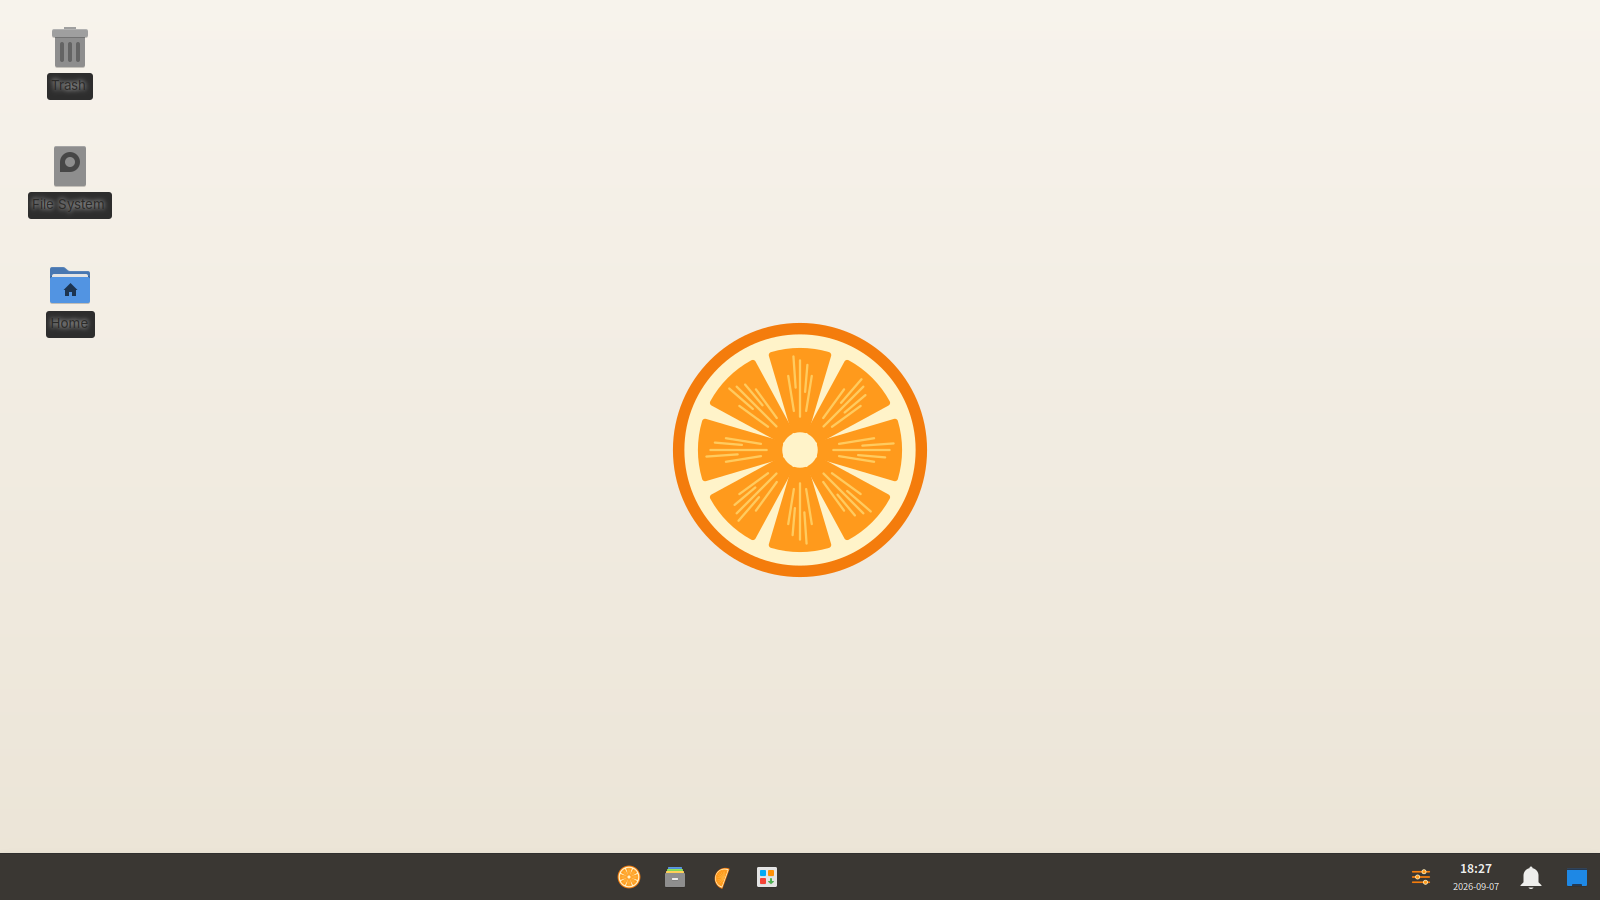
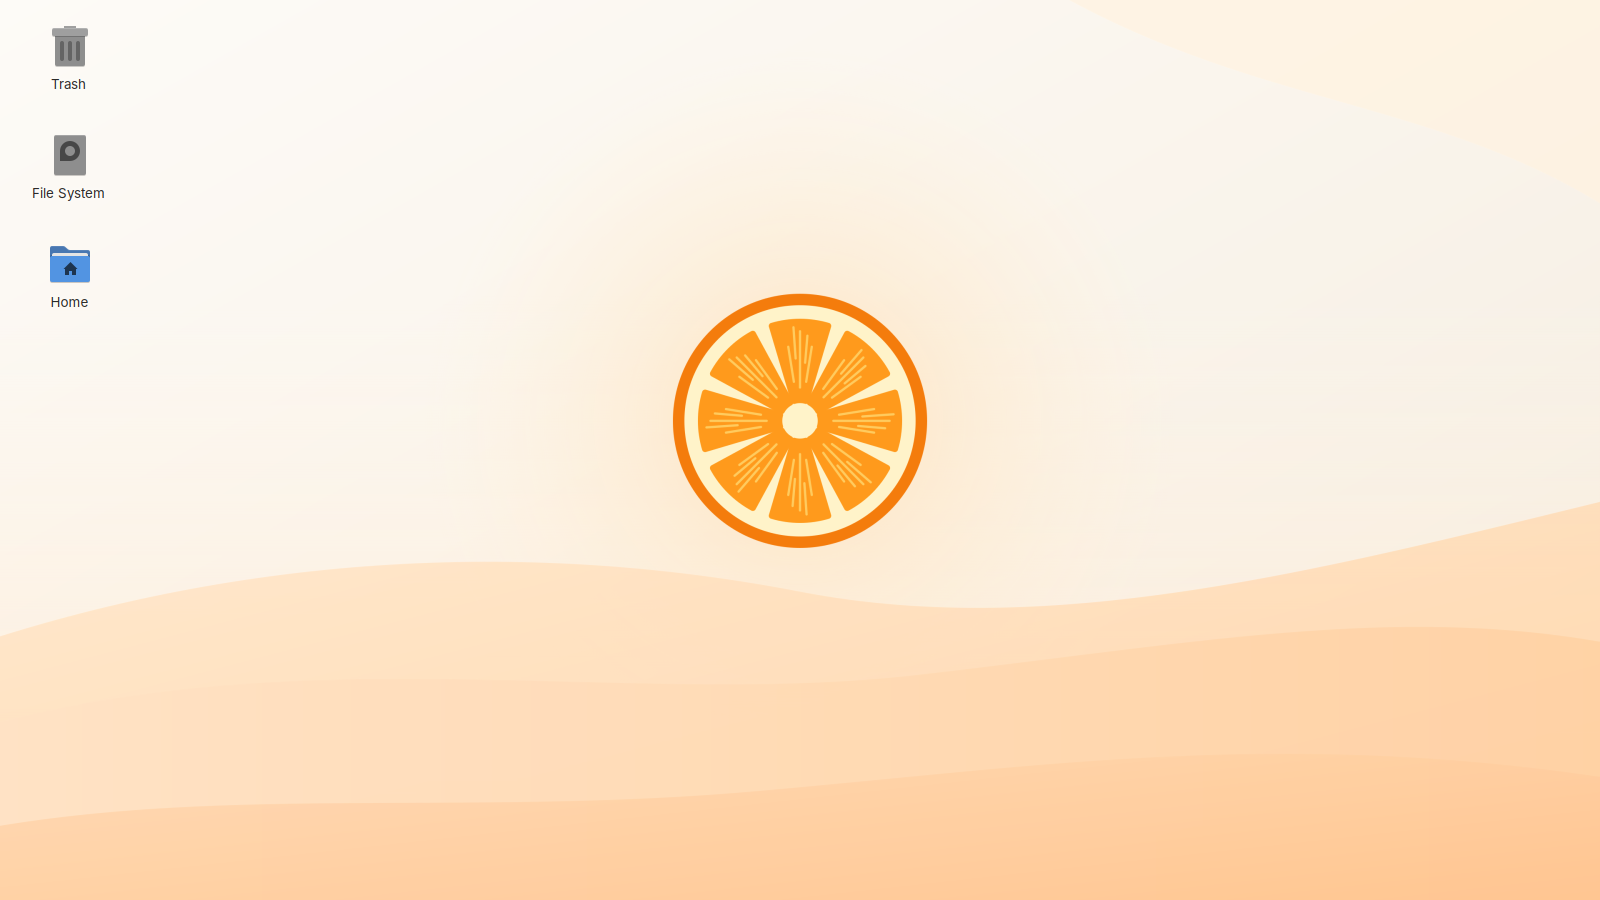
웹사이트 전체 산세리프(Bricolage Grotesque + Hanken Grotesk), 스크린샷 최신화, imager 릴리스 첨부 옵션
- web/index.html: 세리프(Fraunces) 제거하고 전체 산세리프로 — 디스플레이 Bricolage Grotesque, 본문 Hanken
  Grotesk, 라벨 IBM Plex Mono. 트렌디·깔끔한 톤
- docs/screenshots, web/screenshots: 바탕화면 아이콘 라벨 흰 바탕 수정이 반영된 최신 프리뷰로 교체
  (라벨 배경 투명 처리는 이미 gtk.css 에 있었고, 스크린샷만 옛것이었음)
- build-imager.yml: workflow_dispatch 에 release_tag 입력 추가 — 기존 릴리스에 설치본을 첨부(ISO 재빌드 불필요)

Claude-Session: https://claude.ai/code/session_01DVt4fBqjhd9ckGmgeBjH8k

diff --git a/web/index.html b/web/index.html
@@ -7,7 +7,7 @@
 <meta name="description" content="kiyu — a feather-light, secure Linux that feels like home for Windows users. Fedora-based, Korean-ready, with its own Taengja browser.">
 <link rel="preconnect" href="https://fonts.googleapis.com">
 <link rel="preconnect" href="https://fonts.gstatic.com" crossorigin>
-<link rel="stylesheet" href="https://fonts.googleapis.com/css2?family=Fraunces:opsz,wght@9..144,400;9..144,600;9..144,900&family=Public+Sans:wght@400;500;700&family=IBM+Plex+Mono:wght@400;500&display=swap">
+<link rel="stylesheet" href="https://fonts.googleapis.com/css2?family=Bricolage+Grotesque:opsz,wght@12..96,500;12..96,700;12..96,800&family=Hanken+Grotesk:wght@400;500;600;700&family=IBM+Plex+Mono:wght@400;500&display=swap">
 <style>
 :root{
   --rind:#f47c0c; --zest:#ff9a1c; --pith:#fff3c9; --gold:#ffd36a;
@@ -35,11 +35,11 @@
 html{scroll-behavior:smooth}
 body{
   margin:0; background:var(--cream); color:var(--ink);
-  font-family:"Public Sans",system-ui,-apple-system,"Segoe UI",sans-serif;
+  font-family:"Hanken Grotesk",system-ui,-apple-system,"Segoe UI",sans-serif;
   font-size:17px; line-height:1.6; -webkit-font-smoothing:antialiased;
 }
 a{color:inherit}
-h1,h2,h3{font-family:"Fraunces",Georgia,serif; line-height:1.05; text-wrap:balance; margin:0}
+h1,h2,h3{font-family:"Bricolage Grotesque","Hanken Grotesk",system-ui,sans-serif; line-height:1.04; letter-spacing:-.02em; text-wrap:balance; margin:0}
 .wrap{max-width:var(--maxw); margin:0 auto; padding:0 24px}
 .mono{font-family:"IBM Plex Mono",ui-monospace,monospace}
 .eyebrow{font-family:"IBM Plex Mono",monospace; font-size:12px; letter-spacing:.22em; text-transform:uppercase; color:var(--rind); margin:0 0 14px}
@@ -48,7 +48,7 @@ h1,h2,h3{font-family:"Fraunces",Georgia,serif; line-height:1.05; text-wrap:balan
 nav{position:sticky; top:0; z-index:20; backdrop-filter:blur(10px);
   background:color-mix(in srgb,var(--cream) 82%,transparent); border-bottom:1px solid var(--line)}
 .nav{display:flex; align-items:center; gap:18px; height:64px}
-.brand{display:flex; align-items:center; gap:10px; font-family:"Fraunces",serif; font-weight:900; font-size:22px; letter-spacing:-.01em}
+.brand{display:flex; align-items:center; gap:10px; font-family:"Bricolage Grotesque",sans-serif; font-weight:800; font-size:22px; letter-spacing:-.02em}
 .brand svg{width:30px; height:30px; display:block}
 .nav .spacer{flex:1}
 .nav a.link{color:var(--muted); text-decoration:none; font-weight:500; font-size:15px}
@@ -68,8 +68,8 @@ nav{position:sticky; top:0; z-index:20; backdrop-filter:blur(10px);
 .hero .wrap{position:relative; z-index:1}
 .slice{width:132px; height:132px; margin:0 auto 26px; display:block; filter:drop-shadow(0 12px 26px rgba(244,124,12,.35)); animation:rise .9s cubic-bezier(.2,.7,.2,1) both}
 @keyframes rise{from{opacity:0; transform:translateY(14px) rotate(-8deg)}to{opacity:1;transform:none}}
-.hero h1{font-size:clamp(40px,7vw,74px); font-weight:900; letter-spacing:-.02em}
-.hero h1 em{font-style:italic; color:var(--rind)}
+.hero h1{font-size:clamp(40px,7vw,74px); font-weight:800; letter-spacing:-.02em}
+.hero h1 em{font-style:normal; color:var(--rind)}
 .hero p.lead{max-width:36ch; margin:20px auto 0; color:var(--muted); font-size:clamp(17px,2.2vw,21px)}
 .hero .cta{display:flex; gap:12px; justify-content:center; flex-wrap:wrap; margin-top:34px}
 .hero .tag{margin-top:22px; font-size:13px; color:var(--muted)}
@@ -78,7 +78,7 @@ nav{position:sticky; top:0; z-index:20; backdrop-filter:blur(10px);
 /* ---- sections ---- */
 section{padding:84px 0}
 .section-head{max-width:46ch}
-.section-head h2{font-size:clamp(28px,4.4vw,44px); font-weight:600; letter-spacing:-.01em}
+.section-head h2{font-size:clamp(28px,4.4vw,44px); font-weight:700; letter-spacing:-.01em}
 .section-head p{color:var(--muted); margin:14px 0 0}
 
 /* features: not-all-cards — a lead statement + supporting rows */
@@ -88,7 +88,7 @@ section{padding:84px 0}
 .feat{display:grid; grid-template-columns:44px 1fr; gap:16px; padding:20px 0; border-top:1px solid var(--line)}
 .feat:first-child{border-top:none}
 .feat .ic{width:44px; height:44px; border-radius:12px; background:var(--pith); display:grid; place-items:center; color:var(--rind)}
-.feat h3{font-family:"Public Sans",sans-serif; font-weight:700; font-size:18px; margin:0 0 4px}
+.feat h3{font-family:"Hanken Grotesk",sans-serif; font-weight:700; font-size:18px; margin:0 0 4px}
 .feat p{margin:0; color:var(--muted); font-size:15.5px}
 
 /* screenshots */
@@ -118,20 +118,20 @@ section{padding:84px 0}
 @media(max-width:720px){.spec-grid{grid-template-columns:repeat(2,1fr)}}
 .spec{background:var(--ink); padding:24px 22px}
 .spec .k{font:500 12px/1 "IBM Plex Mono",monospace; letter-spacing:.12em; text-transform:uppercase; color:var(--zest)}
-.spec .v{font-family:"Fraunces",serif; font-weight:600; font-size:30px; margin-top:10px; font-variant-numeric:tabular-nums}
+.spec .v{font-family:"Bricolage Grotesque",sans-serif; font-weight:600; font-size:30px; margin-top:10px; font-variant-numeric:tabular-nums}
 .spec .s{color:rgba(255,243,201,.6); font-size:13px; margin-top:4px}
 
 /* download */
 .dl-grid{display:grid; grid-template-columns:repeat(3,1fr); gap:20px; margin-top:40px}
 @media(max-width:820px){.dl-grid{grid-template-columns:1fr}}
 .dl{background:var(--panel); border:1px solid var(--line); border-radius:18px; padding:26px; display:flex; flex-direction:column; gap:6px}
-.dl .os{font-family:"Fraunces",serif; font-weight:600; font-size:22px}
+.dl .os{font-family:"Bricolage Grotesque",sans-serif; font-weight:600; font-size:22px}
 .dl .file{font:500 13px/1.4 "IBM Plex Mono",monospace; color:var(--muted)}
 .dl .btn{margin-top:16px; justify-content:center}
 .dl.iso{background:linear-gradient(180deg,var(--pith),var(--panel)); border-color:var(--gold)}
 .steps{display:flex; gap:10px; flex-wrap:wrap; margin-top:22px; counter-reset:s}
 .step{flex:1; min-width:180px; background:var(--panel); border:1px solid var(--line); border-radius:14px; padding:18px}
-.step::before{counter-increment:s; content:counter(s); font-family:"Fraunces",serif; font-weight:900; color:var(--rind); font-size:22px; display:block; margin-bottom:6px}
+.step::before{counter-increment:s; content:counter(s); font-family:"Bricolage Grotesque",sans-serif; font-weight:900; color:var(--rind); font-size:22px; display:block; margin-bottom:6px}
 .step b{display:block}
 .step span{color:var(--muted); font-size:14px}
 
